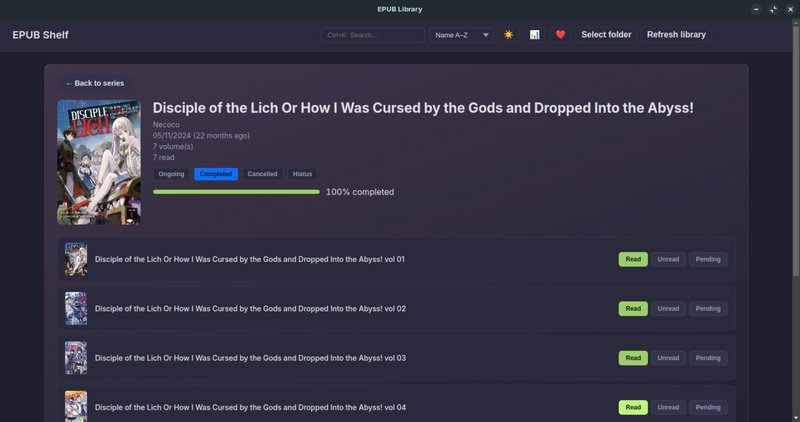
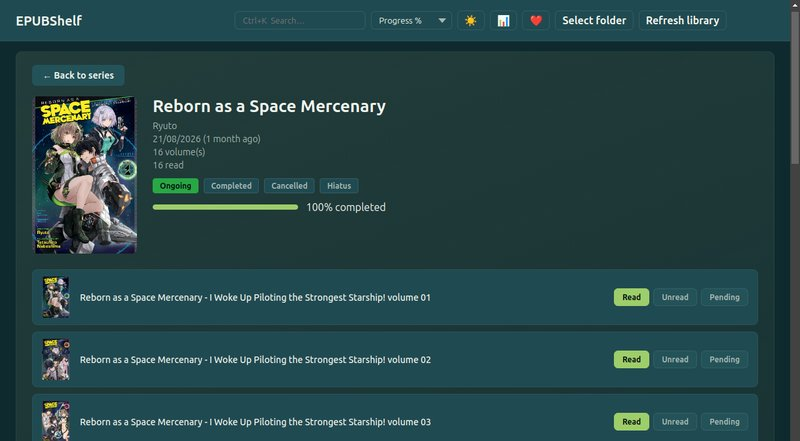
docs: replace README screenshots with v2.0.0 captures
The old shots were from before the Bandua rebrand: they showed the previous
"EPUB Library" title bar and the old Tokyo Night surface, and both were 2x
upscaled from a 1536x812 capture.

Replaced with the owner's v2.0.0 captures, cropped to the app window alone —
the desktop wallpaper and the OS title bar are both removed, so only the
interface shows:

  grid-view.png    1221x673  series grid, five cards
  detail-view.png  1221x673  volume detail, cover + three volume rows

The 800 px JPEG versions are regenerated from the same crops at quality 85,
matching the previous files. README.md and README.pt.md now link the thumbnails
to the full-resolution PNGs; both still carried the "screenshots will be added
here" placeholder next to a table of images that already existed.

The third capture is unused: its volume-preview popup covers the left half of
the volume list.

diff --git a/README.md b/README.md
@@ -37,11 +37,11 @@ A desktop application for managing your EPUB library, organized by series — wi
 
 ## Screenshots
 
-> Screenshots will be added here. Place them in `docs/assets/` or link to GitHub releases.
-
 | Series Grid | Volume Detail |
 |---|---|
-| ![Series Grid](docs/assets/grid-view_low.jpg) | ![Volume Detail](docs/assets/detail-view_low.jpg) |
+| [![Series Grid](docs/assets/grid-view_low.jpg)](docs/assets/grid-view.png) | [![Volume Detail](docs/assets/detail-view_low.jpg)](docs/assets/detail-view.png) |
+
+Click a screenshot for the full-resolution version.
 
 ---
 

diff --git a/README.pt.md b/README.pt.md
@@ -23,11 +23,11 @@ A desktop application for managing your EPUB library, organized by series — wi
 
 ## Screenshots
 
-> Screenshots will be added here. Place them in `docs/assets/` or link to GitHub releases.
-
 | Series Grid | Volume Detail |
 |---|---|
-| `docs/assets/grid-view.png` | `docs/assets/detail-view.png` |
+| [![Series Grid](docs/assets/grid-view_low.jpg)](docs/assets/grid-view.png) | [![Volume Detail](docs/assets/detail-view_low.jpg)](docs/assets/detail-view.png) |
+
+Click a screenshot for the full-resolution version.
 
 ---
 
